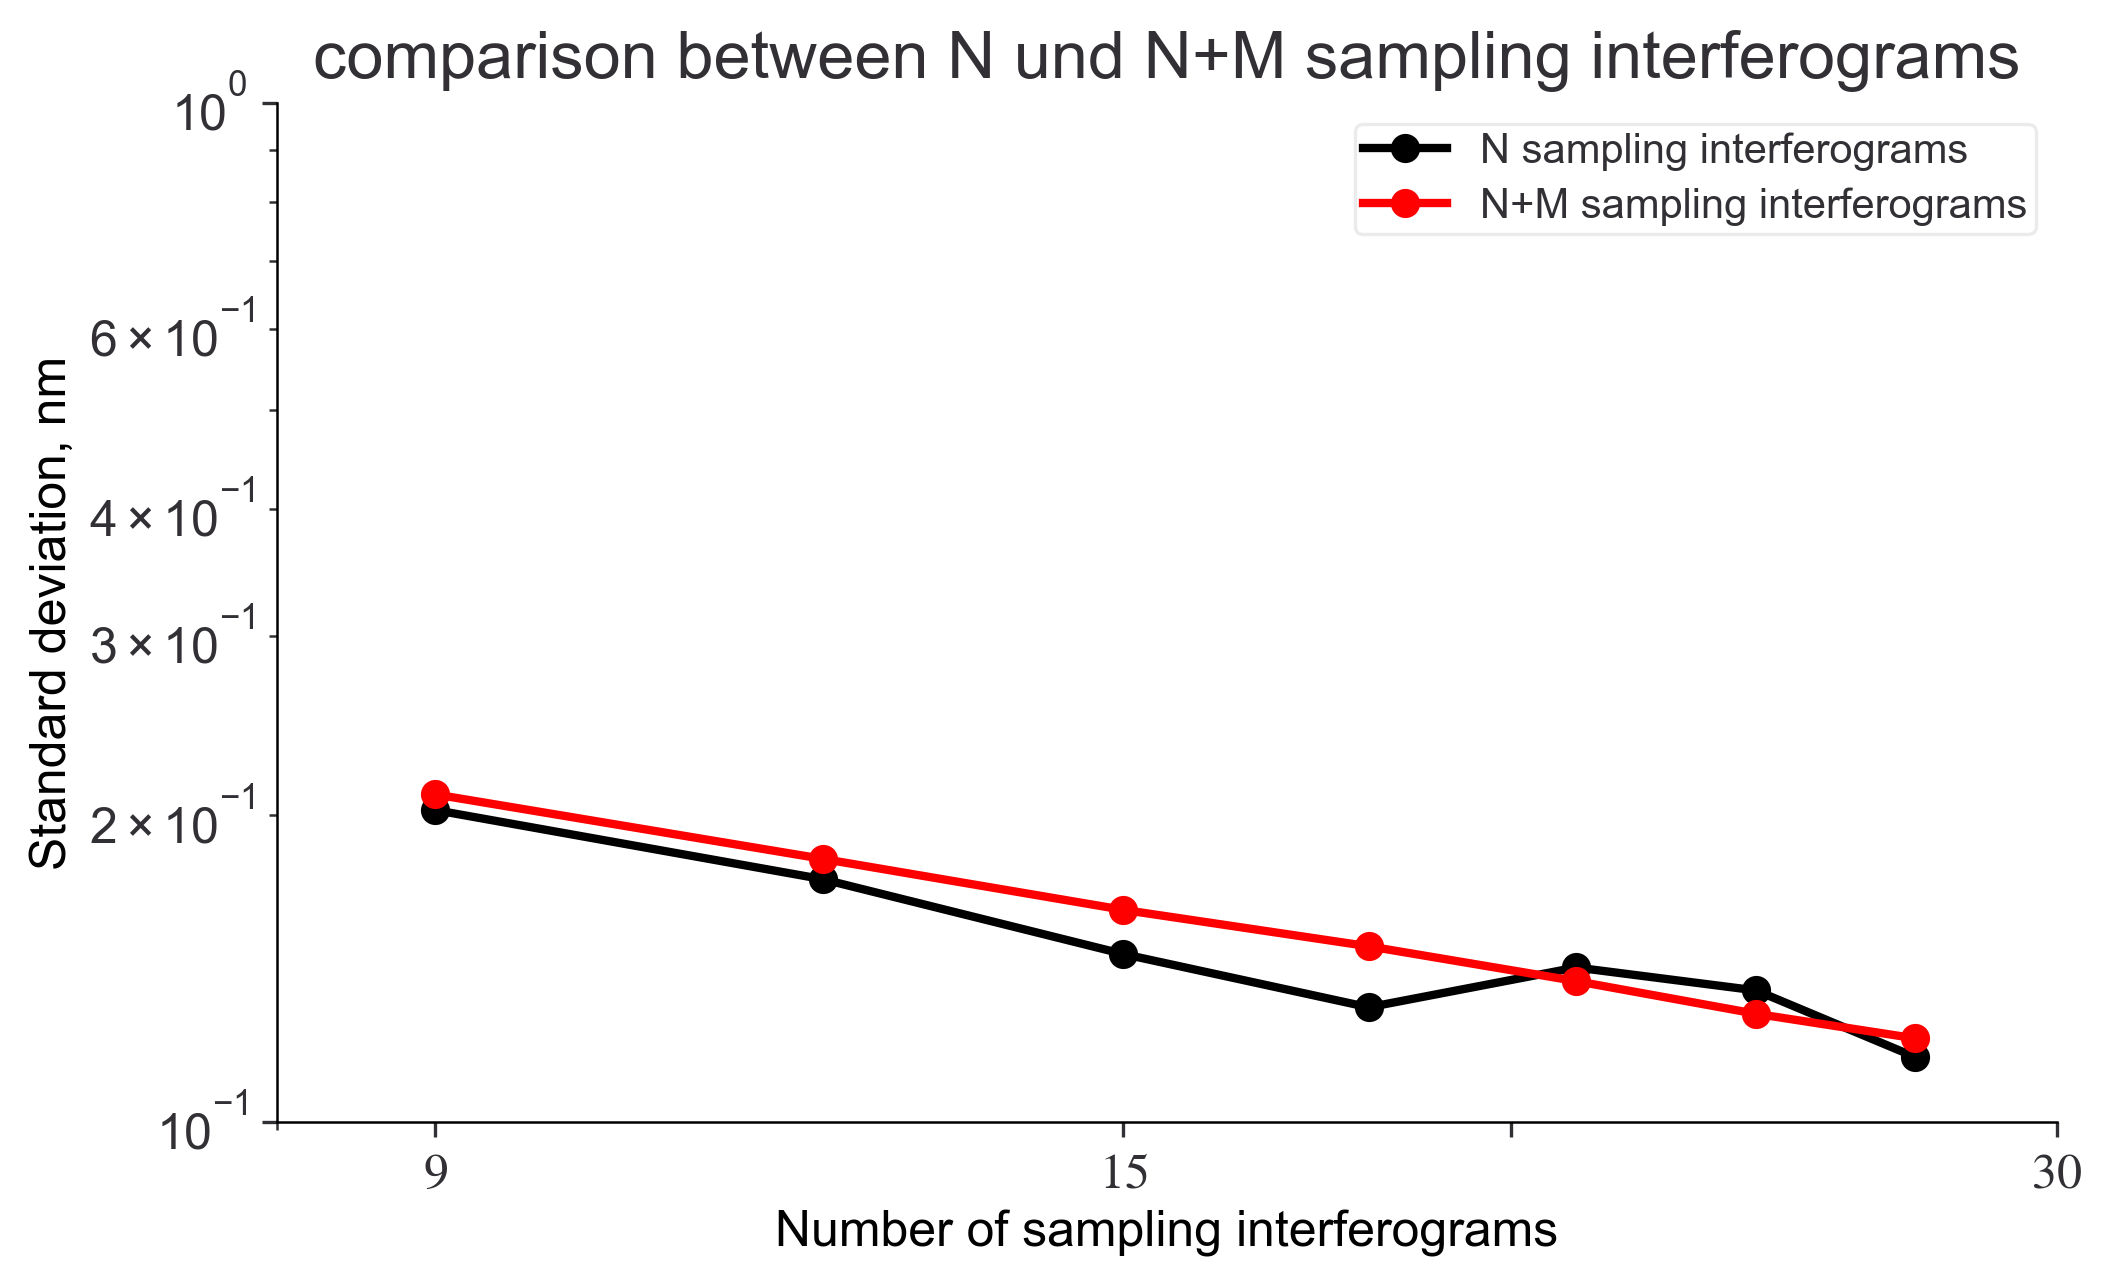
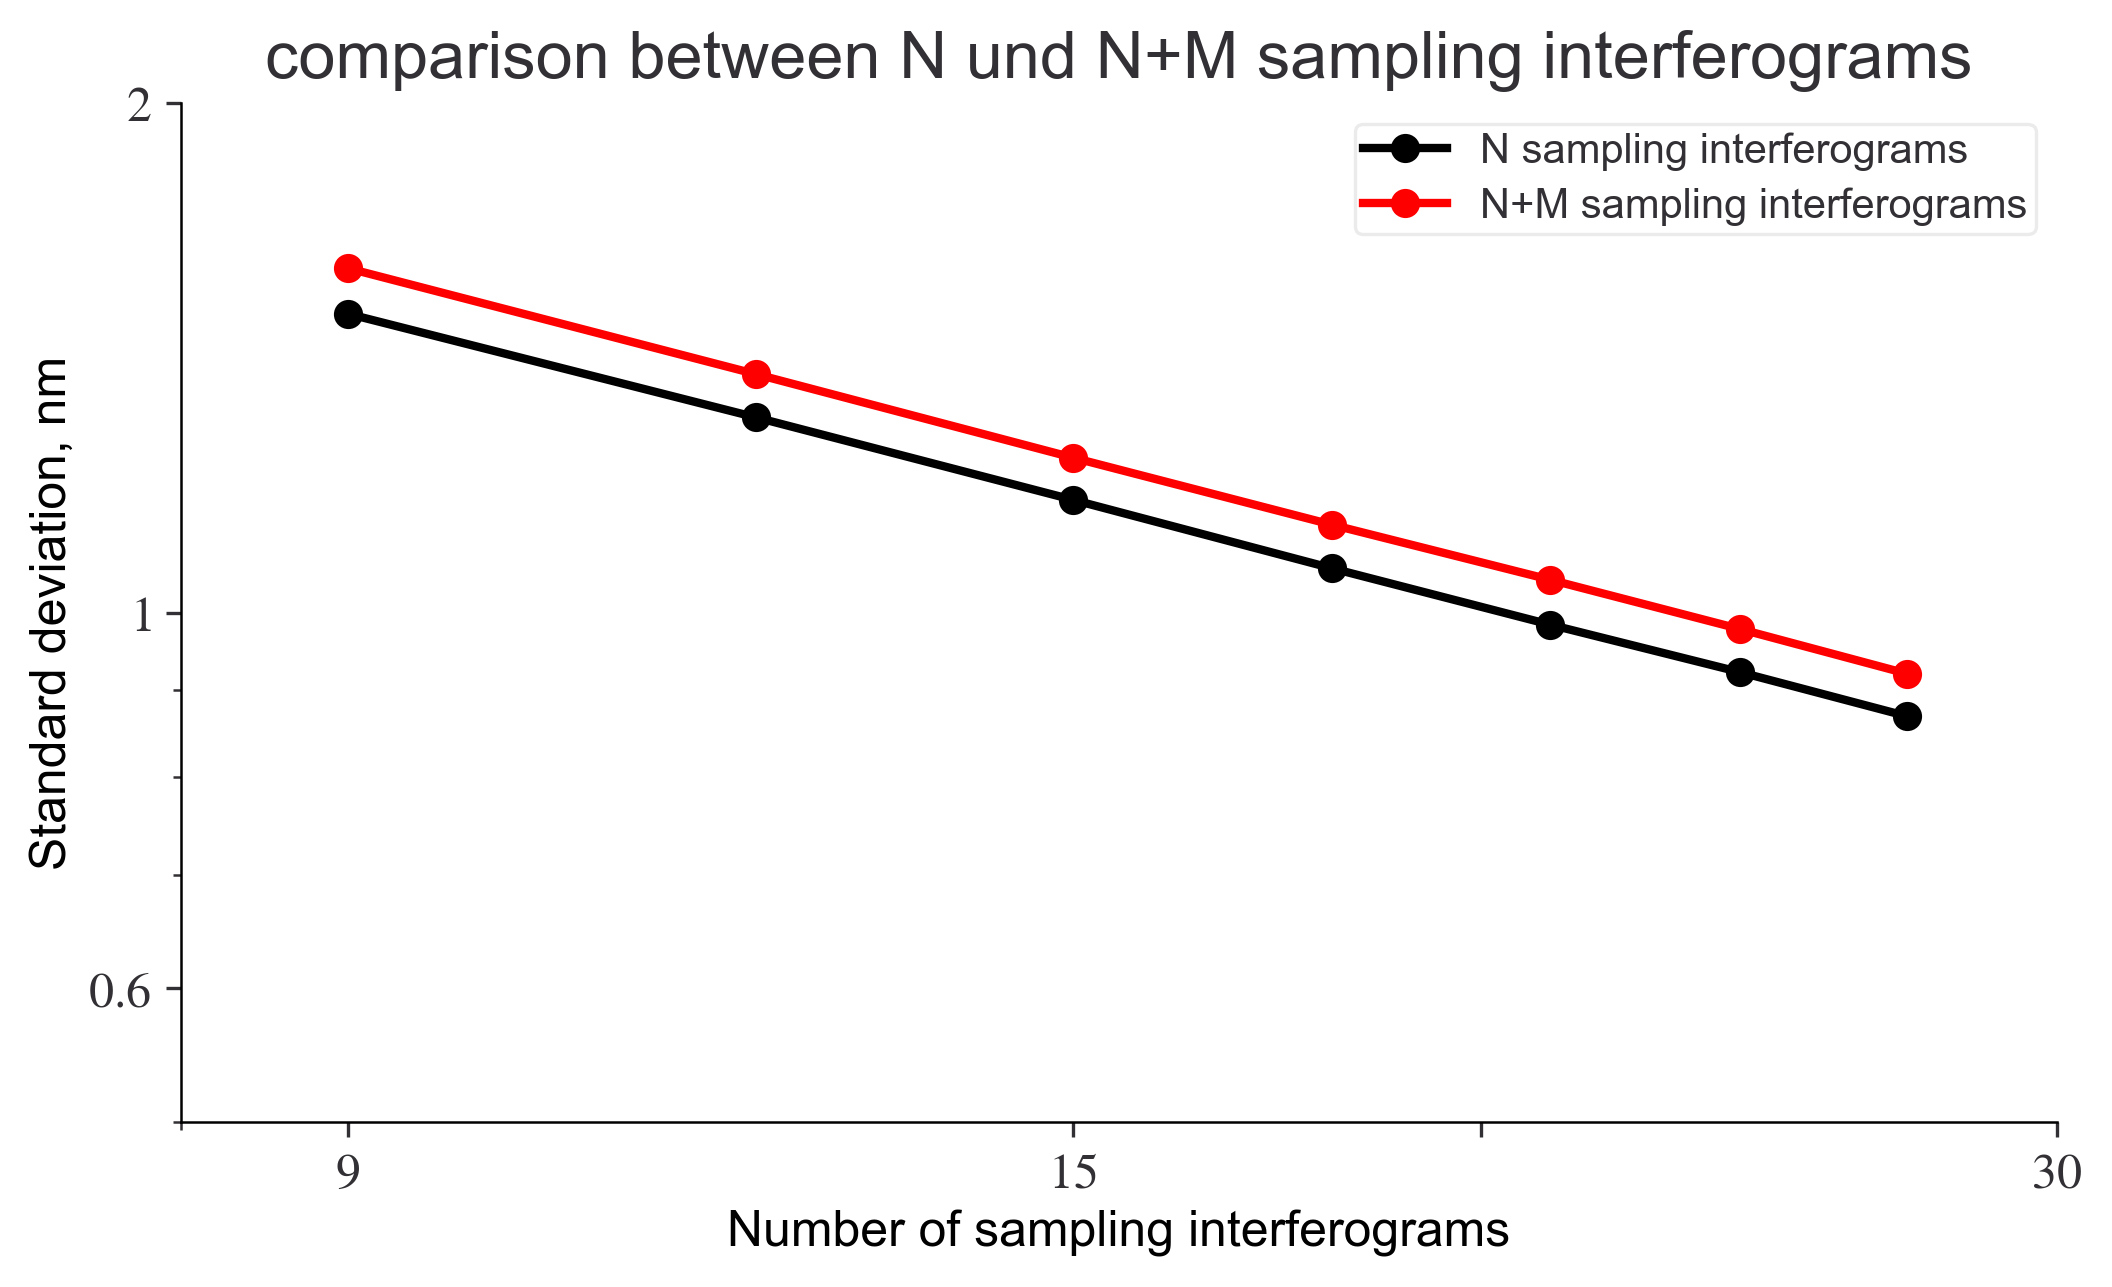
function of PSI

diff --git a/Test.py b/Test.py
@@ -31,3 +31,39 @@ for theta in np.linspace(0,np.pi*2,1000):
 '''
 
 
+# %% comparison between (N+1/2N) sampling und N+1/2N sampling interferograms
+import matplotlib.pyplot as plt
+from PSI_algorithms.N_plus_M_Step import *
+from PSI_algorithms.N_Step import *
+from PSI_algorithms.Data_Process import *
+
+std_NN = np.array([])
+std_NM = np.array([])
+x=np.arange(4,20,2)
+x=(x+x/2).astype(int)
+for N in np.arange(4, 20, 2):
+    _, std = n_step(step=N + N / 2,position_noise=False,shot_noise=True)
+    std_NN = np.append(std_NN, np.nanmean(std))
+    _, std = N_M_step(step=N, over_sample_points=int(N / 2),position_noise=False,shot_noise=True)
+    std_NM = np.append(std_NM, np.nanmean(std))
+
+plt.style.use('scientific')
+plt.figure()
+factor = 530 / (4 * np.pi)
+plt.loglog(x, std_NN, 'k', label='N sampling interferograms',marker='o',markeredgecolor='k')
+plt.loglog(x, std_NM, 'r', label='N+M sampling interferograms',marker='o',markeredgecolor='r')
+
+plt.xlabel('Number of sampling interferograms')
+plt.ylabel('Standard deviation, nm')
+
+plt.xticks([5,6, 15, 20, 30], ['',r'$6$', r'$15$','', r'$30$'])
+plt.yticks([0.04,0.05,0.06,0.1,0.2,0.3],['',r'$0.05$','',r'$0.1$',r'$0.2$',''])
+plt.xlim(5, 30)
+plt.ylim(0.08,0.3)
+plt.legend(loc='upper right')
+plt.title('Comparison between N und N+M sampling interferograms')
+plt.tight_layout()
+plt.savefig('Images/Shot Noise/comparison sampling sampling interferograms',
+            bbox_inches='tight')
+plt.show(block=1)
+
